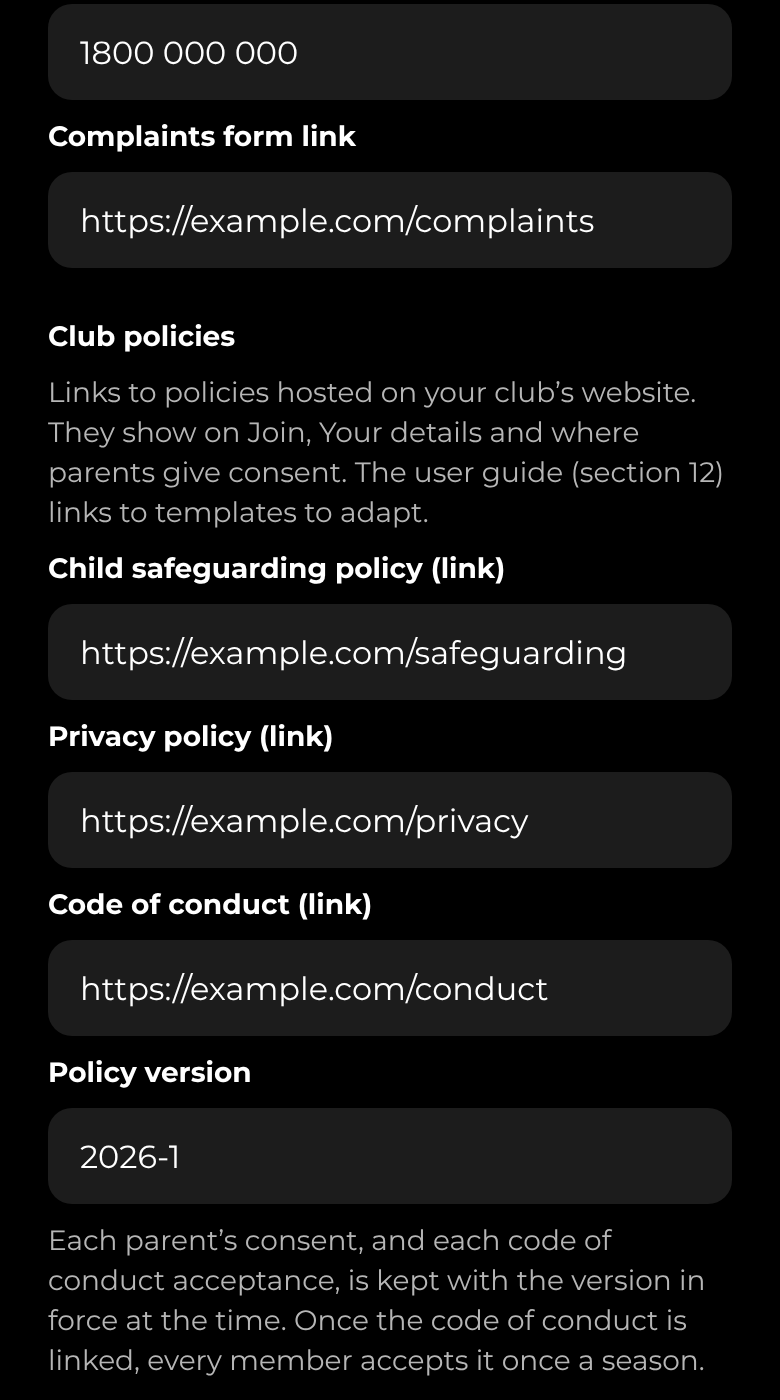
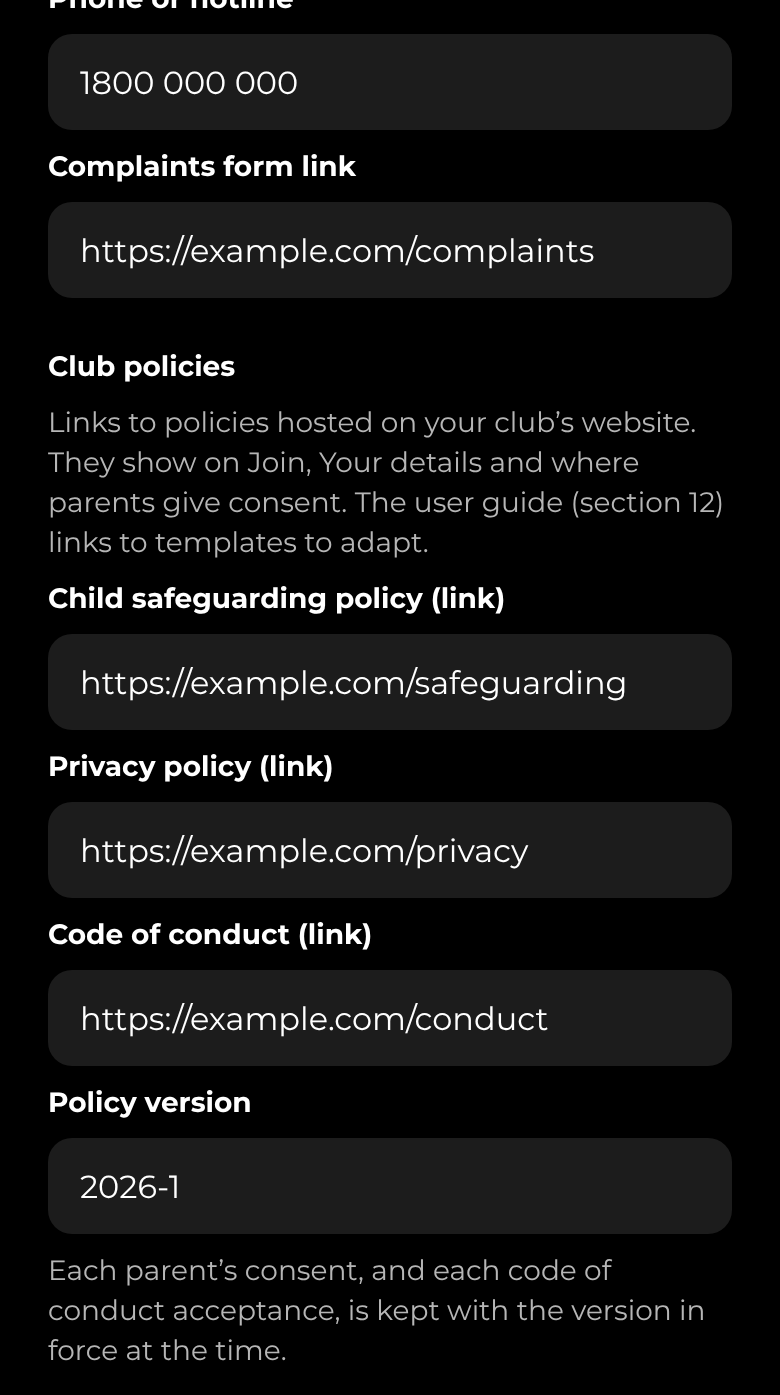
Make asking for the code of conduct a club choice, off by default
Some clubs already have members sign a code of conduct, for example in
their PlayHQ registration. Safeguarding settings gets a "Code of conduct
each season" switch, off by default; members are only asked when it is on
and a code of conduct is linked. Turning it off keeps every acceptance.

Claude-Session: https://claude.ai/code/session_01PSj6UtGHkyxoGwMZG7YNkM

diff --git a/src/app/admin/safeguarding.tsx b/src/app/admin/safeguarding.tsx
@@ -32,6 +32,7 @@ export default function SafeguardingScreen() {
   const [bodyUrl, setBodyUrl] = useState('');
   const [policyUrl, setPolicyUrl] = useState('');
   const [minorPhotos, setMinorPhotos] = useState(false);
+  const [conductEachSeason, setConductEachSeason] = useState(false);
   const [privacyUrl, setPrivacyUrl] = useState('');
   const [conductUrl, setConductUrl] = useState('');
   const [policyVersion, setPolicyVersion] = useState('1');
@@ -47,6 +48,7 @@ export default function SafeguardingScreen() {
       photosResult,
       policiesResult,
       wwcOfficerResult,
+      conductResult,
     ] = await Promise.all([
       supabase.rpc('safeguarding_contacts').maybeSingle(),
       supabase.from('profiles').select(PROFILE_COLUMNS).eq('status', 'approved').order('full_name'),
@@ -54,6 +56,7 @@ export default function SafeguardingScreen() {
       supabase.rpc('safeguarding_photo_setting'),
       supabase.rpc('club_policies').maybeSingle(),
       supabase.rpc('admin_wwc_officer').maybeSingle(),
+      supabase.rpc('conduct_each_season_setting'),
     ]);
     const officerId = (wwcOfficerResult.data as { officer_id: string } | null)?.officer_id ?? null;
     setWwcOfficer(officerId);
@@ -63,6 +66,7 @@ export default function SafeguardingScreen() {
     setConductUrl(policies?.code_of_conduct_url ?? '');
     setPolicyVersion(policies?.policy_version ?? '1');
     setMinorPhotos(photosResult.data === true);
+    setConductEachSeason(conductResult.data === true);
     const contacts = contactsResult.data as SafeguardingContacts | null;
     setOfficer(contacts?.child_safety_officer_id ?? null);
     setManager(contacts?.complaints_manager_id ?? null);
@@ -116,12 +120,16 @@ export default function SafeguardingScreen() {
             p_code_of_conduct_url: conductUrl,
             p_policy_version: policyVersion,
           });
+    const { error: conductError } =
+      rpcError || photosError || policiesError
+        ? { error: null }
+        : await supabase.rpc('admin_set_conduct_each_season', { p_on: conductEachSeason });
     setBusy(false);
     const { error: officerError } =
-      rpcError || photosError || policiesError || wwcOfficer === savedWwcOfficer
+      rpcError || photosError || policiesError || conductError || wwcOfficer === savedWwcOfficer
         ? { error: null }
         : await supabase.rpc('admin_set_wwc_officer', { p_profile_id: wwcOfficer });
-    const failed = rpcError ?? photosError ?? policiesError ?? officerError;
+    const failed = rpcError ?? photosError ?? policiesError ?? conductError ?? officerError;
     if (failed) {
       setError(failed.message);
       return;
@@ -234,8 +242,30 @@ export default function SafeguardingScreen() {
         />
         <ThemedText type="small" themeColor="textSecondary">
           Each parent’s consent, and each code of conduct acceptance, is kept with the version in
-          force at the time. Once the code of conduct is linked, every member accepts it once a
-          season.
+          force at the time.
+        </ThemedText>
+      </View>
+
+      <View style={styles.group}>
+        <ThemedText type="smallBold">Code of conduct each season</ThemedText>
+        <Card style={styles.switchRow}>
+          <ThemedText type="small" style={styles.grow}>
+            Ask every member to accept the code of conduct once a season
+          </ThemedText>
+          <Switch
+            accessibilityLabel="Ask every member to accept the code of conduct once a season"
+            value={conductEachSeason}
+            onValueChange={setConductEachSeason}
+            trackColor={{ true: theme.accent, false: theme.backgroundSelected }}
+            thumbColor={theme.text}
+            {...(Platform.OS === 'web' ? { activeThumbColor: theme.onAccent } : {})}
+          />
+        </Card>
+        <ThemedText type="small" themeColor="textSecondary">
+          Off by default. Leave it off if members already sign your code of conduct another way,
+          such as in their PlayHQ registration. When it’s on and the code of conduct is linked
+          above, it goes on every member’s to-do list each season, and a verified parent or
+          guardian accepts it for an under 18.
         </ThemedText>
       </View>
 

diff --git a/src/app/admin/conduct.tsx b/src/app/admin/conduct.tsx
@@ -18,10 +18,15 @@ import type { AppRole } from '@/lib/types';
  */
 export default function ConductStatusScreen() {
   const [rows, setRows] = useState<ConductStatus[] | null>(null);
+  const [on, setOn] = useState(false);
 
   const load = useCallback(async () => {
-    const { data } = await supabase.rpc('admin_conduct_status');
-    setRows((data as ConductStatus[] | null) ?? []);
+    const [statusResult, settingResult] = await Promise.all([
+      supabase.rpc('admin_conduct_status'),
+      supabase.rpc('conduct_each_season_setting'),
+    ]);
+    setRows((statusResult.data as ConductStatus[] | null) ?? []);
+    setOn(settingResult.data === true);
   }, []);
 
   useFocusEffect(
@@ -46,9 +51,11 @@ export default function ConductStatusScreen() {
   return (
     <Screen>
       <ThemedText type="small" themeColor="textSecondary">
-        {rows.length === 0
-          ? 'Nobody is asked yet. Add the club’s code of conduct in Safeguarding and every member accepts it once a season, from their to-do list.'
-          : 'Every member accepts the code of conduct once a season, from their to-do list. A verified parent or guardian accepts for an under 18. Guests and temporary helpers aren’t asked.'}
+        {!on
+          ? 'Members aren’t asked to accept the code of conduct. To ask them once a season, turn on Code of conduct each season in Safeguarding.'
+          : rows.length === 0
+            ? 'Nobody is asked yet. Link the club’s code of conduct in Safeguarding and every member accepts it once a season, from their to-do list.'
+            : 'Every member accepts the code of conduct once a season, from their to-do list. A verified parent or guardian accepts for an under 18. Guests and temporary helpers aren’t asked.'}
       </ThemedText>
       {[
         { title: `Still to accept (${waiting.length})`, list: waiting },

diff --git a/docs/user-guide.md b/docs/user-guide.md
@@ -39,7 +39,7 @@ each of their roles can.
 | Role          | Who it's for                                                                                         |
 | ------------- | ---------------------------------------------------------------------------------------------------- |
 | **Athlete**   | Registered players. Some are club captains, or captains or vice captains of a squad or team. They see their own attendance and can report an absence. |
-| **Guardian**  | Parents and guardians of athletes under 18. They see their child's attendance and can report an absence for them, and see what has changed around their child. They accept the club's code of conduct for their child each season. |
+| **Guardian**  | Parents and guardians of athletes under 18. They see their child's attendance and can report an absence for them, and see what has changed around their child. If the club asks, they accept the club's code of conduct for their child each season. |
 | **Coach**     | Head coaches and assistant coaches. Both have the same permissions; the title only shows who is who. Need a current Working With Children Check; the role pauses while it's expired. A parent volunteering at their child's club, or a volunteer under 18, has an exemption instead (see [Volunteer exemptions](#volunteer-exemptions)). |
 | **Manager**   | Squad and team managers. Need a current Working With Children Check; the role pauses while it's expired. A parent volunteering at their child's club, or a volunteer under 18, has an exemption instead (see [Volunteer exemptions](#volunteer-exemptions)). |
 | **Committee** | Club committee members. Each can add a title, such as President or Secretary, shown with their role. Need a current Working With Children Check unless an admin exempts them; the role pauses if a recorded check expires. |
@@ -99,7 +99,7 @@ What each role sees on its home screen:
 | Sign off injury clearances             |         |                 |   Endorse    |            |     Accept    |   Endorse‡    |         |     Accept    |
 | See who opened injury documents        |   Own   | Their athlete's |              |            |               |               |         |       ✓       |
 | Consent for a child's check-ins and injuries |         |        ✓        |              |            |               |               |         |  See status   |
-| Accept the code of conduct each season | Own§ | Own, and their athlete's | Own | Own | Own | Own | | Own, see who has |
+| Accept the code of conduct each season (if the club asks) | Own§ | Own, and their athlete's | Own | Own | Own | Own | | Own, see who has |
 | Take attendance                        |         |                 |      ✓       |     ✓      |       ✓       |               |         |       ✓       |
 | See athletes' attendance history       |         |                 |      ✓       |            |       ✓       |               |         |       ✓       |
 | Vote in club awards                    |    ✓    |        ✓        |      ✓       |     ✓      |       ✓       |               |         |       ✓       |
@@ -404,8 +404,9 @@ record. Overdue training says **Overdue since** its due date.
 
 ### The code of conduct
 
-Once the club has linked its code of conduct, every member accepts it once a season. Your to-do
-list says **Accept the code of conduct** until you have. Open it, tap **Read the code of conduct**,
+If the club asks members to accept its code of conduct in the app, every member accepts it once a
+season. Clubs that already have members sign it another way, such as in their PlayHQ registration,
+can leave this off. When it's on, your to-do list says **Accept the code of conduct** until you have. Open it, tap **Read the code of conduct**,
 then tap **I agree** to accept the words shown:
 
 > I've read the club's code of conduct and I'll follow it at training, at games and online.
@@ -655,8 +656,8 @@ you're asked each time (see [Injury documents and photos](#injury-documents-and-
 
 ### The code of conduct for your child
 
-Each season a verified parent or guardian accepts the club's code of conduct for each child under
-18, and their own to-do list shows **Accept the code of conduct for** your child until one of you
+If the club asks members to accept its code of conduct in the app, each season a verified parent or
+guardian accepts it for each child under 18, and their own to-do list shows **Accept the code of conduct for** your child until one of you
 has. Read it, go through it with your child, then tap **I agree** to accept:
 
 > I've read the club's code of conduct and gone through it with my child. We'll both follow it at
@@ -1841,8 +1842,13 @@ Under **Club policies**, add links to the club's **child safeguarding policy**, 
 policy** and **code of conduct**, hosted on your club's website, and the **policy version**. The
 links show on Join, Your details and the parents' consent screen. Each parent's consent is
 kept with the version in force when they gave it, and so is each code of conduct acceptance, so
-change the version when you change a policy. Once the code of conduct is linked, every member
-accepts it once a season (see [The code of conduct](#the-code-of-conduct)).
+change the version when you change a policy.
+
+**Code of conduct each season** is off by default. Turn it on to have every member accept the code
+of conduct in the app once a season (see [The code of conduct](#the-code-of-conduct)); it needs the
+code of conduct link above. Leave it off if members already sign your code of conduct another way,
+such as in their PlayHQ registration. Turning it off stops the asking and keeps every acceptance
+already made.
 Templates to adapt are in [docs/policies](policies/README.md).
 
 **Photos of under 18s' injuries** is off by default, so injury proof for athletes under 18 is the
@@ -1851,6 +1857,7 @@ your club's policy allows photos of injuries; even then, only a verified parent 
 one, after confirming their consent, and athletes under 18 can never add one themselves.
 
 <img src="user-guide/admin-safeguarding-photos.png" width="210" alt="Safeguarding settings: club policies and photos of under 18s' injuries">
+<img src="user-guide/admin-safeguarding-conduct.png" width="210" alt="Safeguarding settings: Code of conduct each season switched on">
 
 **Code of conduct** in Administration lists who still has to accept the code of conduct this
 season and who has, with the date and, for an under 18, the parent or guardian who accepted. Tap
@@ -2027,7 +2034,8 @@ Working With Children Check, and another admin must do it.
 - **Nothing is shared without your consent.** Your child's check-ins and injuries are seen by
   their coaches, physios and the committee only after you consent in the app (see [Giving
   consent](#giving-consent)). You can withdraw it at any time, and every change is kept.
-- **You and your child agree how to behave.** Each season you go through the club's code of
+- **You and your child agree how to behave.** If the club asks for it in the app, each season you
+  go through the club's code of
   conduct with your child and accept it for both of you (see [The code of conduct for your
   child](#the-code-of-conduct-for-your-child)).
 - **Your access ends at 18.** Guardian access ends on your child's 18th birthday.
@@ -2053,8 +2061,8 @@ Working With Children Check, and another admin must do it.
   worries you.
 - **You can tell someone safely.** The check-in screen has a link to raise a concern, and you can
   hide your name. Kids Helpline (1800 55 1800) is free, any time.
-- **Everyone agrees to the same code of conduct**, coaches and parents included, every season,
-  covering training, games and online.
+- **Everyone can agree to the same code of conduct**, coaches and parents included, every season,
+  covering training, games and online, when the club asks for it in the app.
 - **No photos of your injuries.** Attach your physio's or doctor's letter instead, as a PDF or a
   photo of the letter. You can see everyone who has opened it.
 
@@ -2075,8 +2083,8 @@ Working With Children Check, and another admin must do it.
   helper**: they can't be approved until they've accepted the club's code of conduct and
   safeguarding policy and a check or an accepted exemption covers every day they help, and they see
   nothing else in the app (see [Temporary helpers](#temporary-helpers)).
-- **The code of conduct, every season.** Every coach, manager, physio, committee member and admin
-  accepts the club's code of conduct once a season, and the club can add Sport Integrity
+- **The code of conduct, every season.** If the club asks for it in the app, every coach,
+  manager, physio, committee member and admin accepts the club's code of conduct once a season, and the club can add Sport Integrity
   Australia's Child Safeguarding in Sport Induction to integrity training in one tap.
 - **Opening a child's records is recorded.** When you open an under 18's injuries, injury
   documents, check-ins or game goals, the app records it, and their parents and guardians can see
@@ -2113,9 +2121,10 @@ Working With Children Check, and another admin must do it.
   when and why, and the family is told. An admin can't change their own child's guardians.
 - **Policies and consent.** Link the club's safeguarding policy, privacy policy and code of
   conduct under Safeguarding; templates are in [docs/policies](policies/README.md). The under 18s
-  report shows which children still need a parent's consent. Once the code of conduct is linked,
-  every member accepts it each season, a verified parent or guardian for an under 18, and
-  **Code of conduct** in Administration shows who still has to.
+  report shows which children still need a parent's consent. Clubs that don't already have members
+  sign the code of conduct, for example in PlayHQ, can turn on **Code of conduct each season**:
+  every member then accepts it in the app each season, a verified parent or guardian for an under
+  18, and **Code of conduct** in Administration shows who still has to.
 - **Safeguarding education.** **Add the safeguarding induction** in Integrity training sets Sport
   Integrity Australia's Child Safeguarding in Sport Induction for coaches, managers, physios and
   the committee, and the committee checks each certificate.
